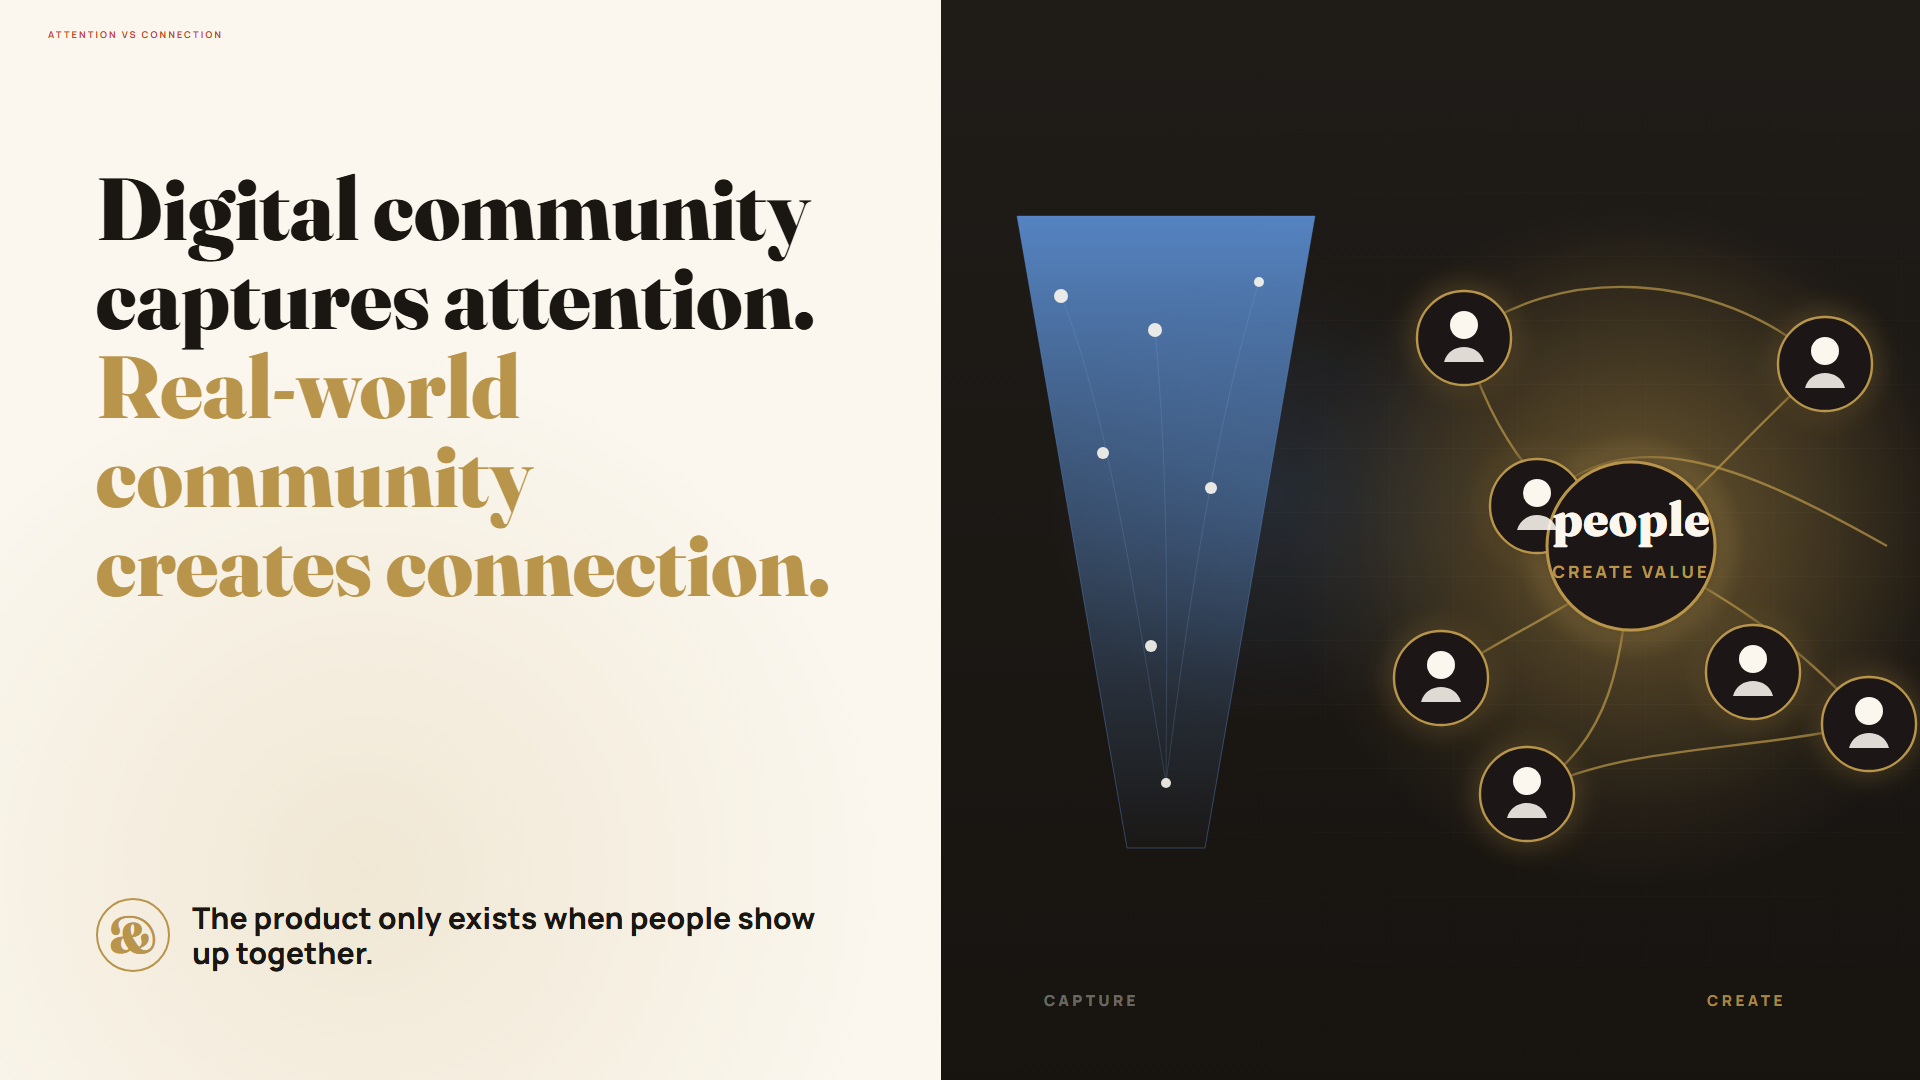
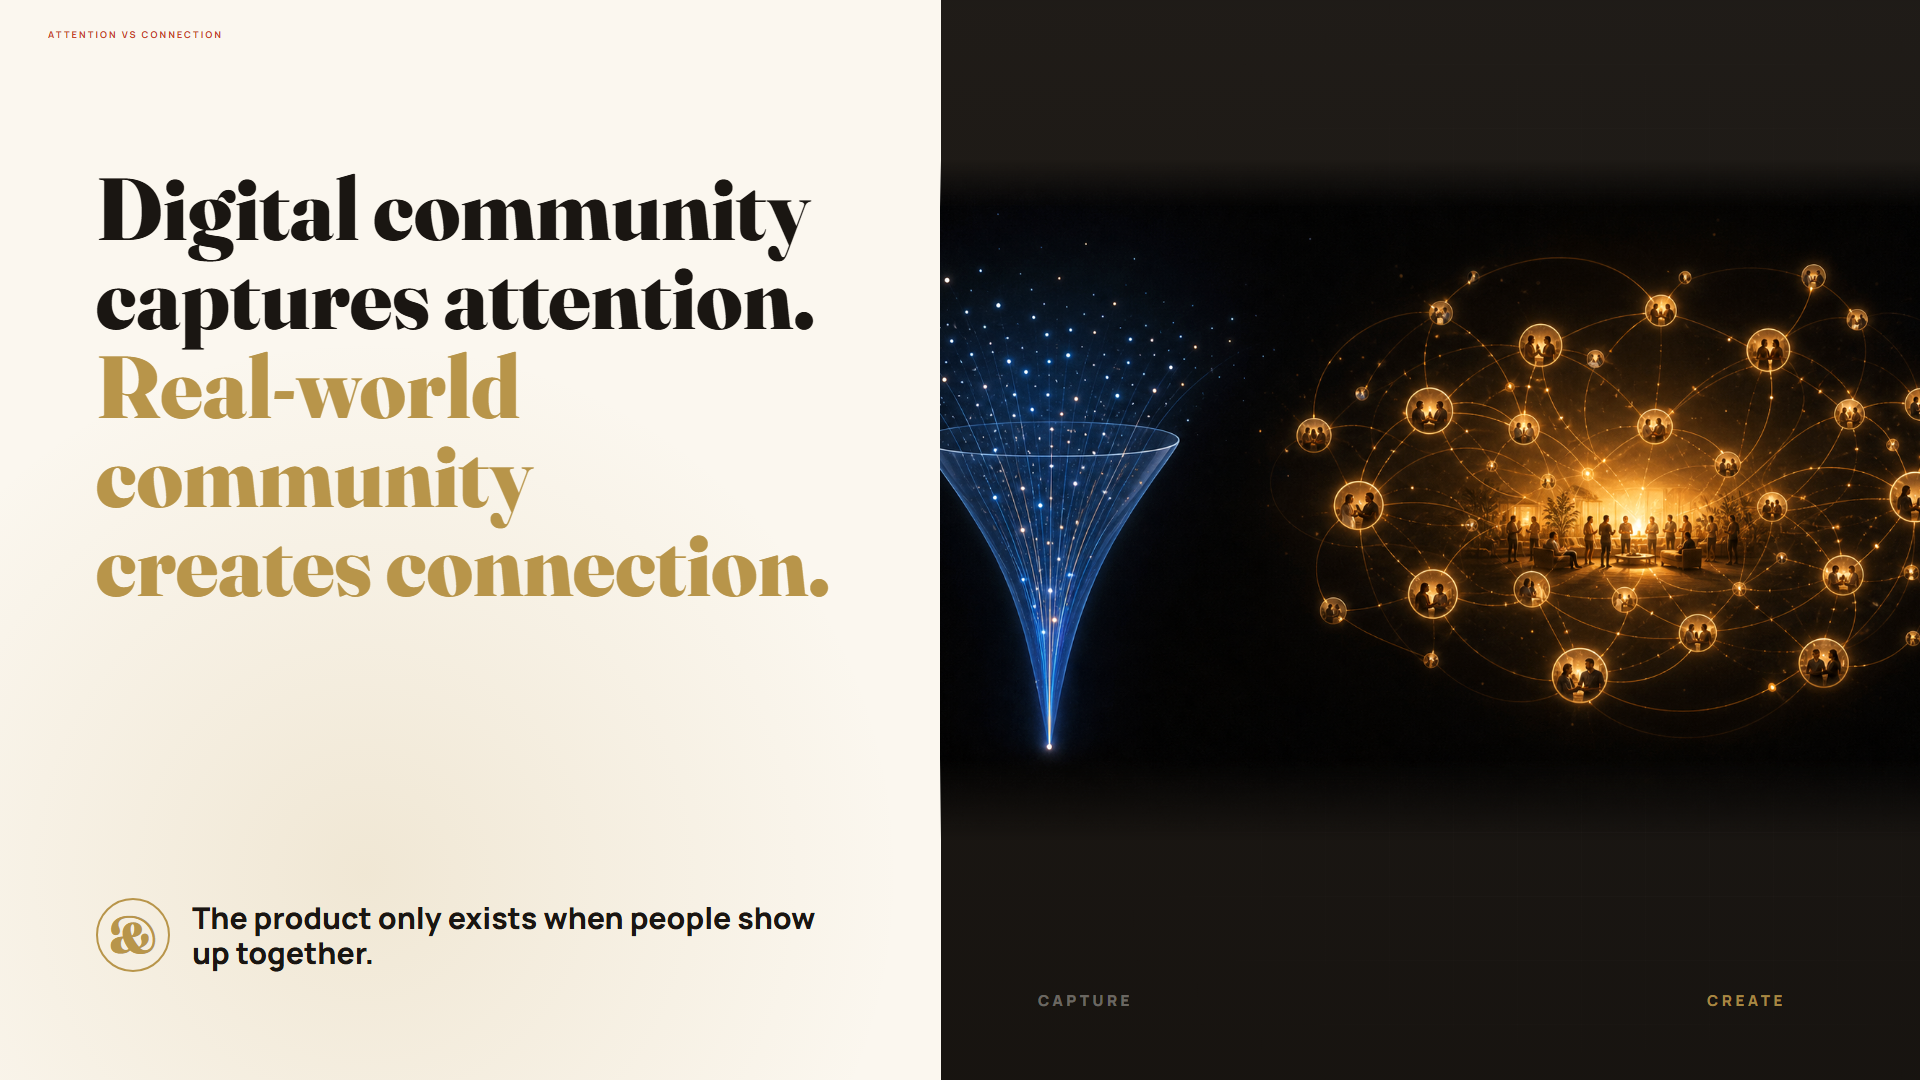
Upgrade attention connection graphic

Changed region(s): [[0.4688, 0.1833, 1.0, 0.7944], [0.5312, 0.9167, 0.5938, 0.9472]]

diff --git a/community_value_attention_connection_final.html b/community_value_attention_connection_final.html
@@ -111,8 +111,8 @@
     position: absolute;
     inset: 0 0 0 49%;
     background:
-      radial-gradient(circle at 72% 48%, rgba(184, 149, 74, .28), transparent 32%),
-      radial-gradient(circle at 34% 46%, rgba(91, 143, 212, .16), transparent 26%),
+      radial-gradient(circle at 72% 48%, rgba(184, 149, 74, .18), transparent 32%),
+      radial-gradient(circle at 34% 46%, rgba(91, 143, 212, .10), transparent 26%),
       linear-gradient(180deg, rgba(255,255,255,.025), rgba(0,0,0,.10));
     z-index: 1;
   }
@@ -130,18 +130,22 @@
 
   .visual {
     position: absolute;
-    right: 70px;
-    top: 118px;
-    width: 875px;
-    height: 850px;
+    right: 0;
+    top: 160px;
+    width: 980px;
+    height: 680px;
     z-index: 2;
   }
 
-  .visual svg {
+  .visual img {
     width: 100%;
     height: 100%;
     display: block;
-    overflow: visible;
+    object-fit: cover;
+    object-position: center center;
+    filter: saturate(1.05) contrast(1.05);
+    -webkit-mask-image: linear-gradient(to bottom, transparent 0%, #000 7%, #000 88%, transparent 100%);
+    mask-image: linear-gradient(to bottom, transparent 0%, #000 7%, #000 88%, transparent 100%);
   }
 
   .word {
@@ -155,7 +159,7 @@
   }
 
   .word.capture {
-    left: 1044px;
+    left: 1038px;
     color: rgba(251, 247, 239, .42);
   }
 
@@ -188,83 +192,7 @@
     <div class="dark-field" aria-hidden="true"></div>
 
     <div class="visual" aria-hidden="true">
-      <svg viewBox="0 0 875 850" role="img">
-        <defs>
-          <linearGradient id="funnel" x1="0" x2="0" y1="0" y2="1">
-            <stop offset="0" stop-color="#5B8FD4" stop-opacity=".9"/>
-            <stop offset=".72" stop-color="#5B8FD4" stop-opacity=".22"/>
-            <stop offset="1" stop-color="#5B8FD4" stop-opacity=".02"/>
-          </linearGradient>
-          <radialGradient id="halo" cx="50%" cy="50%" r="50%">
-            <stop offset="0" stop-color="#f7d786" stop-opacity=".6"/>
-            <stop offset=".34" stop-color="#b8954a" stop-opacity=".2"/>
-            <stop offset="1" stop-color="#b8954a" stop-opacity="0"/>
-          </radialGradient>
-          <filter id="glow" x="-70%" y="-70%" width="240%" height="240%">
-            <feGaussianBlur stdDeviation="13" result="blur"/>
-            <feMerge>
-              <feMergeNode in="blur"/>
-              <feMergeNode in="SourceGraphic"/>
-            </feMerge>
-          </filter>
-        </defs>
-
-        <g transform="translate(16 80)">
-          <path d="M26 18 L324 18 L214 650 L136 650 Z" fill="url(#funnel)" stroke="#5B8FD4" stroke-opacity=".4"/>
-          <g stroke="#8bb8f0" stroke-opacity=".18" fill="none">
-            <path d="M70 98 C116 210 146 410 175 585"/>
-            <path d="M268 84 C224 228 198 404 175 585"/>
-            <path d="M164 132 C178 284 176 420 175 585"/>
-          </g>
-          <g fill="#fbf7ef" opacity=".9">
-            <circle cx="70" cy="98" r="7"/>
-            <circle cx="164" cy="132" r="7"/>
-            <circle cx="268" cy="84" r="5"/>
-            <circle cx="112" cy="255" r="6"/>
-            <circle cx="220" cy="290" r="6"/>
-            <circle cx="160" cy="448" r="6"/>
-            <circle cx="175" cy="585" r="5"/>
-          </g>
-        </g>
-
-        <g transform="translate(398 36)">
-          <circle cx="258" cy="392" r="344" fill="url(#halo)"/>
-          <g stroke="#b8954a" stroke-width="2.4" stroke-opacity=".72" fill="none">
-            <path d="M91 184 C182 112 338 112 452 210"/>
-            <path d="M91 184 C130 324 220 384 258 392"/>
-            <path d="M452 210 C376 276 324 344 258 392"/>
-            <path d="M68 524 C164 462 232 442 258 392"/>
-            <path d="M258 392 C340 436 424 484 496 570"/>
-            <path d="M154 640 C252 590 360 600 496 570"/>
-            <path d="M164 352 C254 260 372 312 514 392"/>
-            <path d="M258 392 C250 510 240 586 154 640"/>
-          </g>
-
-          <g filter="url(#glow)">
-            <circle cx="91" cy="184" r="47" fill="#1a1612" stroke="#b8954a" stroke-width="2.4"/>
-            <circle cx="452" cy="210" r="47" fill="#1a1612" stroke="#b8954a" stroke-width="2.4"/>
-            <circle cx="164" cy="352" r="47" fill="#1a1612" stroke="#b8954a" stroke-width="2.4"/>
-            <circle cx="380" cy="518" r="47" fill="#1a1612" stroke="#b8954a" stroke-width="2.4"/>
-            <circle cx="68" cy="524" r="47" fill="#1a1612" stroke="#b8954a" stroke-width="2.4"/>
-            <circle cx="496" cy="570" r="47" fill="#1a1612" stroke="#b8954a" stroke-width="2.4"/>
-            <circle cx="154" cy="640" r="47" fill="#1a1612" stroke="#b8954a" stroke-width="2.4"/>
-            <circle cx="258" cy="392" r="84" fill="#1a1612" stroke="#b8954a" stroke-width="3"/>
-          </g>
-
-          <g fill="#fbf7ef">
-            <g transform="translate(91 184)"><circle cy="-13" r="14"/><path d="M-20 24 C-15 4 15 4 20 24" opacity=".88"/></g>
-            <g transform="translate(452 210)"><circle cy="-13" r="14"/><path d="M-20 24 C-15 4 15 4 20 24" opacity=".88"/></g>
-            <g transform="translate(164 352)"><circle cy="-13" r="14"/><path d="M-20 24 C-15 4 15 4 20 24" opacity=".88"/></g>
-            <g transform="translate(380 518)"><circle cy="-13" r="14"/><path d="M-20 24 C-15 4 15 4 20 24" opacity=".88"/></g>
-            <g transform="translate(68 524)"><circle cy="-13" r="14"/><path d="M-20 24 C-15 4 15 4 20 24" opacity=".88"/></g>
-            <g transform="translate(496 570)"><circle cy="-13" r="14"/><path d="M-20 24 C-15 4 15 4 20 24" opacity=".88"/></g>
-            <g transform="translate(154 640)"><circle cy="-13" r="14"/><path d="M-20 24 C-15 4 15 4 20 24" opacity=".88"/></g>
-          </g>
-
-          <text x="258" y="382" text-anchor="middle" font-family="Fraunces, Georgia, serif" font-size="48" font-weight="850" fill="#fbf7ef">people</text>
-          <text x="258" y="424" text-anchor="middle" font-family="Manrope, sans-serif" font-size="17" font-weight="900" letter-spacing="3" fill="#b8954a">CREATE VALUE</text>
-        </g>
-      </svg>
+      <img src="assets/explorations/community-value-final/attention-connection-synthetic-visual.png" alt="">
     </div>
 
     <div class="word capture">Capture</div>